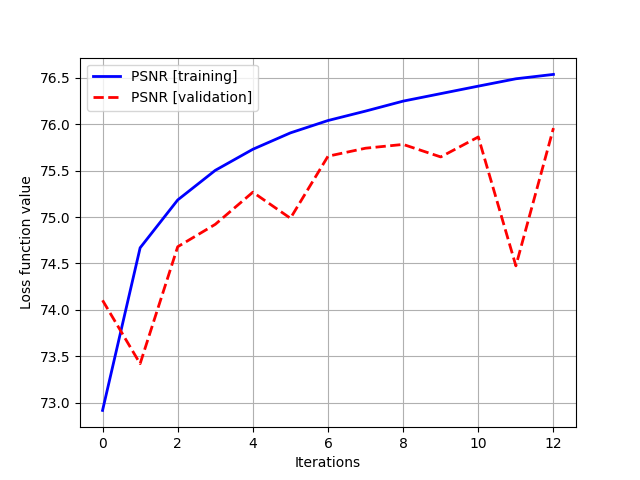
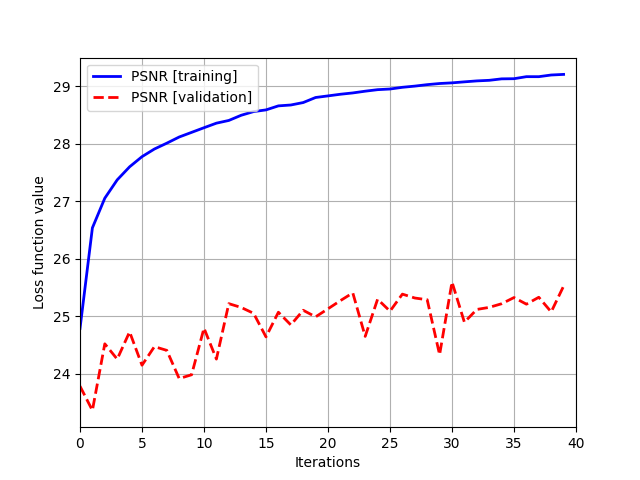
Add normalization to testing

diff --git a/plotting_training_and_valid.py b/plotting_training_and_valid.py
@@ -12,7 +12,8 @@ from torch.utils.data import DataLoader
 import argparse
 from LiteFlowNet import Network, batch_estimate
 from losses import Gradient_Loss, Flow_Loss, Intensity_Loss
-
+from math import log10, sqrt 
+import numpy as np
 
 from tqdm import tqdm
 # Models
@@ -95,10 +96,10 @@ epoch_PSNR_valid = []
 epoch_loss_train = []
 epoch_PSNR_train = []
 
-testLoader = DataLoader(DatasetFromFolder(INPUTS_PATH, Image_list_file=Image_list_file, subsample=0.2),  args.BATCH_SIZE, shuffle=True) 
+testLoader = DataLoader(DatasetFromFolder(INPUTS_PATH, Image_list_file=Image_list_file, subsample=0.1),  args.BATCH_SIZE, shuffle=True) 
 
 
-for  ep_ in range(13):
+for  ep_ in range(40):
 
     model_name       = 'train_weights_%s_%d_Shuffle/weight_%03d.pt' %  (Data_Setting, args.image_size, ep_)
 
@@ -107,8 +108,8 @@ for  ep_ in range(13):
     model.load_state_dict(torch_loaded['state_dict'])
     model = model.cuda().eval()  
      
-    epoch_loss_train.append(torch_loaded['train_loss'])
-    epoch_PSNR_train.append(torch_loaded['train_psnr'])
+    epoch_loss_train.append(torch_loaded['train_loss']) 
+    epoch_PSNR_train.append(torch_loaded['train_psnr'] -  20*log10(255))
     
     valid_PSNR = []
     valid_loss = [] 
@@ -133,22 +134,31 @@ for  ep_ in range(13):
         input_last = inputs[:, 9:,:,:].clone().cuda() #I_t 
 
         pred_flow_esti_tensor = torch.cat([input_last, G_output],1) #(Predicted)
-        gt_flow_esti_tensor = torch.cat([input_last, target],1) #(Ground Truth) 
+        gt_flow_esti_tensor   = torch.cat([input_last, target],1) #(Ground Truth) 
 
         flow_gt   = batch_estimate(gt_flow_esti_tensor, flow_network)
         flow_pred = batch_estimate(pred_flow_esti_tensor, flow_network)
         
-        g_op_loss = op_loss(flow_pred, flow_gt)
+        g_op_loss  = op_loss(flow_pred, flow_gt)
         g_int_loss = int_loss(G_output, target)
-        g_gd_loss = gd_loss(G_output, target)
+        g_gd_loss  = gd_loss(G_output, target)
     
         g_loss = args.lam_gd*g_gd_loss + args.lam_op*g_op_loss + args.lam_int*g_int_loss
 
-        valid_loss.append(g_loss.item())
-        
-        PSNR_BxC_temp = PSNR(G_output.cpu().numpy(), target.cpu().numpy())   
+        valid_loss.append(g_loss.item()) 
+         
+        #pdb.set_trace()
+        Image_gt   = G_output.permute(2,3,1,0).squeeze(-1).detach().cpu().numpy() 
+        Image_pred = target.permute(2,3,1,0).squeeze(-1).detach().cpu().numpy()
+
+        Image_gt   = (Image_gt - Image_gt.min())/(Image_gt.max() - Image_gt.min())
+        Image_pred = (Image_pred - Image_pred.min())/(Image_pred.max() - Image_pred.min())
+
+        PSNR_BxC_temp = PSNR(255*Image_gt, 255*Image_pred)   
+        #PSNR_BxC_temp = PSNR(G_output.cpu().numpy(), target.cpu().numpy())   -   20*log10(255)
+        #pdb.set_trace()
         valid_PSNR.append(PSNR_BxC_temp)
-        pbar.set_postfix({'Valid loss': g_loss.item(), "PSNR" :PSNR_BxC_temp})
+        pbar.set_postfix({'EP': ep_, 'Valid loss': g_loss.item(), "PSNR" : sum(valid_PSNR)/len(valid_PSNR)})
  
 
     epoch_loss_valid.append(sum(valid_loss)/len(valid_loss) )
@@ -157,18 +167,15 @@ for  ep_ in range(13):
 ########################################################################## 
  
 plt.figure()
-plt.plot(epoch_PSNR_train, label="PSNR [training]",   color='blue', linestyle = "-", linewidth=2)
-plt.plot(epoch_PSNR_valid, label="PSNR [validation]", color='red',  linestyle = "--", linewidth=2) 
+plt.plot(np.arange(0, 40, step=1), epoch_PSNR_train, label="PSNR [training]",   color='blue', linestyle = "-", linewidth=2)
+plt.plot(np.arange(0, 40, step=1), epoch_PSNR_valid, label="PSNR [validation]", color='red',  linestyle = "--", linewidth=2)  
 plt.xlabel('Iterations')
 plt.ylabel('Loss function value') 
-#plt.xlim([0,500])
+plt.xlim([0,40])
 plt.legend()
 plt.grid()                                     # draw grid for major ticks
 plt.grid(which='minor', alpha=0.3)   
-plt.savefig("Valid_vs_train.png")
-plt.show()
-
-pdb.set_trace()
+plt.savefig("Valid_vs_train.png")  
 
 
 

diff --git a/test_cuee.py b/test_cuee.py
@@ -13,6 +13,7 @@ import argparse
 import numpy as np
 import os
 import pdb 
+import matplotlib.pyplot as plt
 
 parser = argparse.ArgumentParser()
 
@@ -47,8 +48,8 @@ args = parser.parse_args()
 #Model Paths
 lite_flow_model_path='./network-sintel.pytorch'
 
-INPUTS_PATH = "CUEE_preprocessing/Testing-Tr0p60-Val0p20-Test0p20/h5files_Frame-4-Mins_IMS-1920x1080/*.h5" 
-
+#INPUTS_PATH = "CUEE_preprocessing/Testing-Tr0p80-Val0p00-Test0p20/h5files_Frame-4-Mins_IMS-1920x1080"
+INPUTS_PATH = "CUEE_preprocessing/Saranphat/h5files_Frame-4-Mins_IMS-1920x1080-Saranphat"
 
 
 # Models
@@ -63,9 +64,22 @@ device = torch.device(dev if torch.cuda.is_available() else "cpu")
 
 # SkyNet UNet
 model = SkyNet_UNet(args.input_channels, args.output_channels) 
- 
- 
-model_name = 'training_cuee_480_weights/weight_%03d.pt' % 19
+
+new_weight = True 
+
+if new_weight == True: 
+    ep = 39
+    model_name = 'train_weights_Tr0p80-Val0p00-Test0p20_480_Shuffle/weight_%03d.pt' % ep
+    prediction_folder = "saveimage_CUEE_weights_%03d" %  ep
+else:
+    ep = 20
+    model_name = 'weights/backups/weight_ %d.pt' % ep
+    prediction_folder = "saveimage_TSI_weights_%02d" % ep
+
+os.makedirs( prediction_folder, exist_ok=True) 
+
+
+#model_name = 'weights/weight_39.pt' 
 model.load_state_dict(torch.load(model_name)['state_dict'])
 model = model.cuda().eval()
 
@@ -74,9 +88,8 @@ flow_network = Network()
 flow_network.load_state_dict(torch.load(lite_flow_model_path))
 flow_network.cuda().eval() 
 
- 
-
-testLoader = DataLoader(DatasetFromFolder(INPUTS_PATH), args.BATCH_SIZE, shuffle=False)
+  
+testLoader = DataLoader(DatasetFromFolder(INPUTS_PATH ), args.BATCH_SIZE, shuffle=False)
  
 
 # Training Loss
@@ -98,8 +111,9 @@ pbar = tqdm(testLoader)
 os.makedirs( "results_cuee_trained_480", exist_ok=True) 
 image_path = "results_cuee_trained_480/prediction_%d.png"
 
+
 psnr_all = []  
-for input_index, (inputs, target) in enumerate(pbar):
+for input_index, (inputs, target, image_name) in enumerate(pbar):
 
 
     # Training
@@ -107,14 +121,28 @@ for input_index, (inputs, target) in enumerate(pbar):
     target = target.float().to(device)  
          
     x = inputs
-    y = target 
+    y_groundtruth = target 
 
     with torch.no_grad(): 
-        G_output = model(x) 
+        y_predict = model(x) 
  
+    Image_gt   = y_groundtruth.permute(2,3,1,0).squeeze(-1).detach().cpu().numpy() 
+    Image_pred = y_predict.permute(2,3,1,0).squeeze(-1).detach().cpu().numpy()
+
+    Image_gt   = (Image_gt - Image_gt.min())/(Image_gt.max() - Image_gt.min())
+    Image_pred = (Image_pred - Image_pred.min())/(Image_pred.max() - Image_pred.min())
+
+    plt.imsave(os.path.join(prediction_folder, image_name[0] + "-gt.png"), Image_gt)
     
-    psnr = PSNR(G_output.permute(2,3,1,0).squeeze(-1).detach().cpu().numpy()*255,y.permute(2,3,1,0).squeeze(-1).detach().cpu().numpy()*255)
- 
+    plt.imsave(os.path.join(prediction_folder, image_name[0] + "-pred.png"), Image_pred)
+    
+    psnr = PSNR(Image_gt*255, Image_pred*255)
+    
+
+    txtf = open(os.path.join(prediction_folder, image_name[0] + '-PSNR.txt'),'w+')
+    txtf.write("%s:%f" % (image_name[0], psnr)  ) 
+    txtf.close()
+
     psnr_all.append(psnr)
 
     description = {'id': input_index, "psnr":psnr}

diff --git a/plotting_training_loss.py b/plotting_training_loss.py
@@ -23,7 +23,7 @@ for pickle_ in pickle_files:
 df = pd.DataFrame(total_loss_list) 
  
 
-lam_int = 5.00
+lam_int = 0.5
 lam_gd  = 0.00111
 lam_op  = 0.010
 
@@ -32,18 +32,28 @@ op_loss     = lam_op*df["op_loss"].values
 int_loss    = lam_int*df["int_loss"].values
 gd_loss     = lam_op*df["gd_loss"].values
 
-plt.figure()
-plt.plot(total_loss, label="Total loss [training]", color='black', linestyle = "-", linewidth=2)
-plt.plot(op_loss, label="Optical loss [training]",  color='orange', linestyle = "-.",linewidth=2, alpha=0.5)
-plt.plot(int_loss, label="Intensity loss [training]",    color='lime', linestyle = "--",linewidth=2, alpha=0.5)
-plt.plot(gd_loss, label="Gradient loss [training]",      color='blue', linestyle = ":",linewidth=2, alpha=0.5)
-plt.xlabel('Iterations')
-plt.ylabel('Loss function value') 
-#plt.xlim([0,500])
-plt.legend()
-plt.grid()                                     # draw grid for major ticks
-plt.grid(which='minor', alpha=0.3)   
-plt.show()
+fig, ax = plt.subplots(4, 1,  sharex=True,  figsize=(7, 5))
+ax[0].plot(total_loss, label="Total loss", color='black', linestyle = "-", linewidth=2)
+ax[0].set_ylabel('Total Loss')
+ax[0].grid()      
+
+ax[1].plot(int_loss, label="Intensity loss [training]",    color='green', linestyle = "--",linewidth=2, alpha=0.5)
+ax[1].set_ylabel('Intensity Loss')
+ax[1].grid()      
+
+
+ax[2].plot(op_loss, label="Optical loss [training]",  color='orange', linestyle = "-.",linewidth=2, alpha=0.5)
+ax[2].set_ylabel('Optical Loss')
+ax[2].grid()      
+
+
+ax[3].plot(gd_loss, label="Gradient loss [training]",      color='blue', linestyle = ":",linewidth=2, alpha=0.5)
+ax[3].set_ylabel('Gradient Loss')
+ax[3].set_xlabel('Iterations')
+ax[3].grid()      
+ax[3].set_xlim([0,500])
+# draw grid for major ticks  
+plt.savefig("Loss")
 
 pdb.set_trace()
 

diff --git a/dataloader_CUEE.py b/dataloader_CUEE.py
@@ -18,7 +18,7 @@ def PSNR_torch(original, compressed):
     B, C, H, W = original.shape
     mse = torch.mean((original.view(B, C, -1) - compressed.view(B, C, -1)) ** 2, dim=2)   
     max_pixel = 255 
-    psnr = 20 * torch.log10(max_pixel / torch.sqrt(mse))  
+    psnr      = 20 * torch.log10(max_pixel / torch.sqrt(mse))  
     return psnr
 
 def PSNR(original, compressed): 
@@ -82,10 +82,11 @@ class DatasetFromFolder(data.Dataset):
         
         #target = np.moveaxis(target, 2, 0)
         target = torch.from_numpy(target)
-         
 
+        # อันนี้เพิ่มขึ้นมาเพื่อ print filename ตอน train อย่าลืม comment ออก 
+        image_name = os.path.basename(self.input_files[index]).split(".h5")[0]
         # pdb.set_trace() << Comment อันนี้ ออกด้วยนะคะ 
-        return inputs, target
+        return inputs, target  , image_name
 
     def __len__(self):
         return self.n_images
